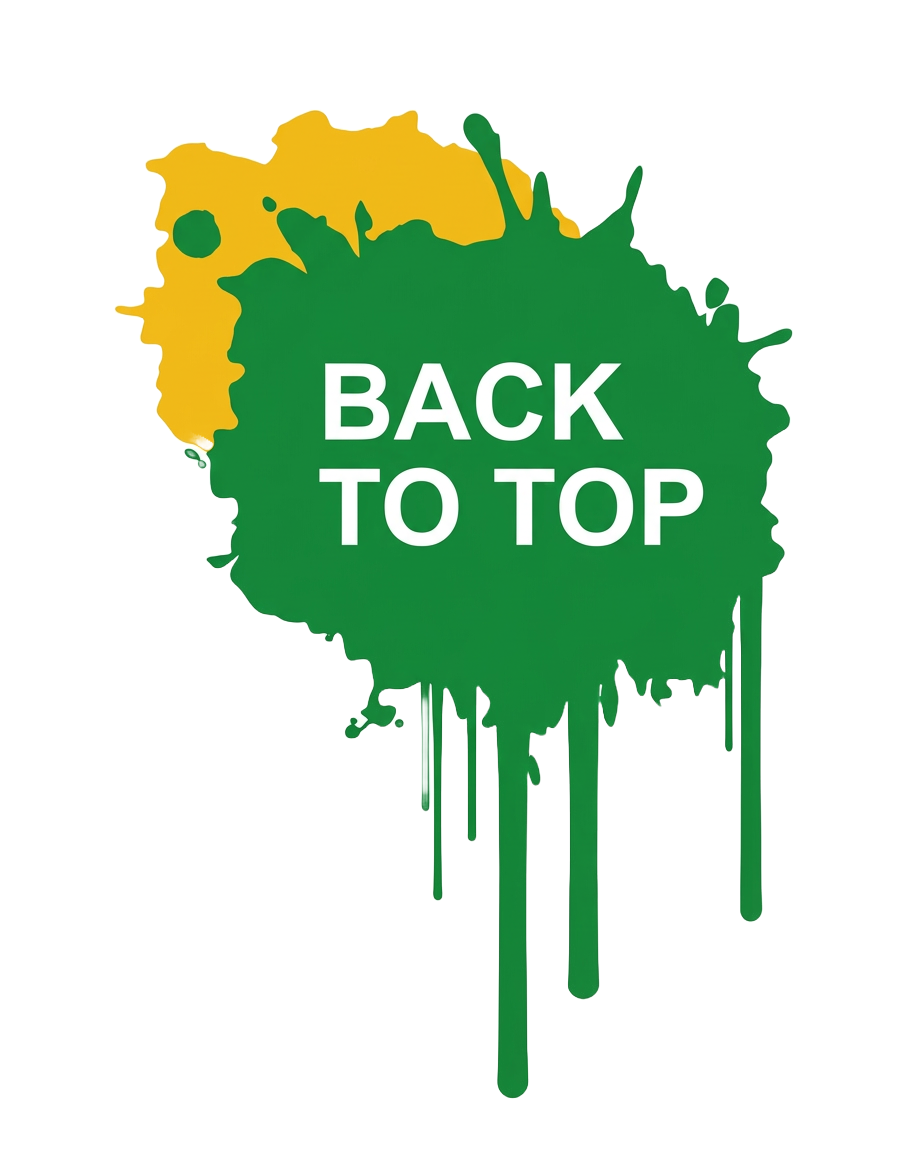
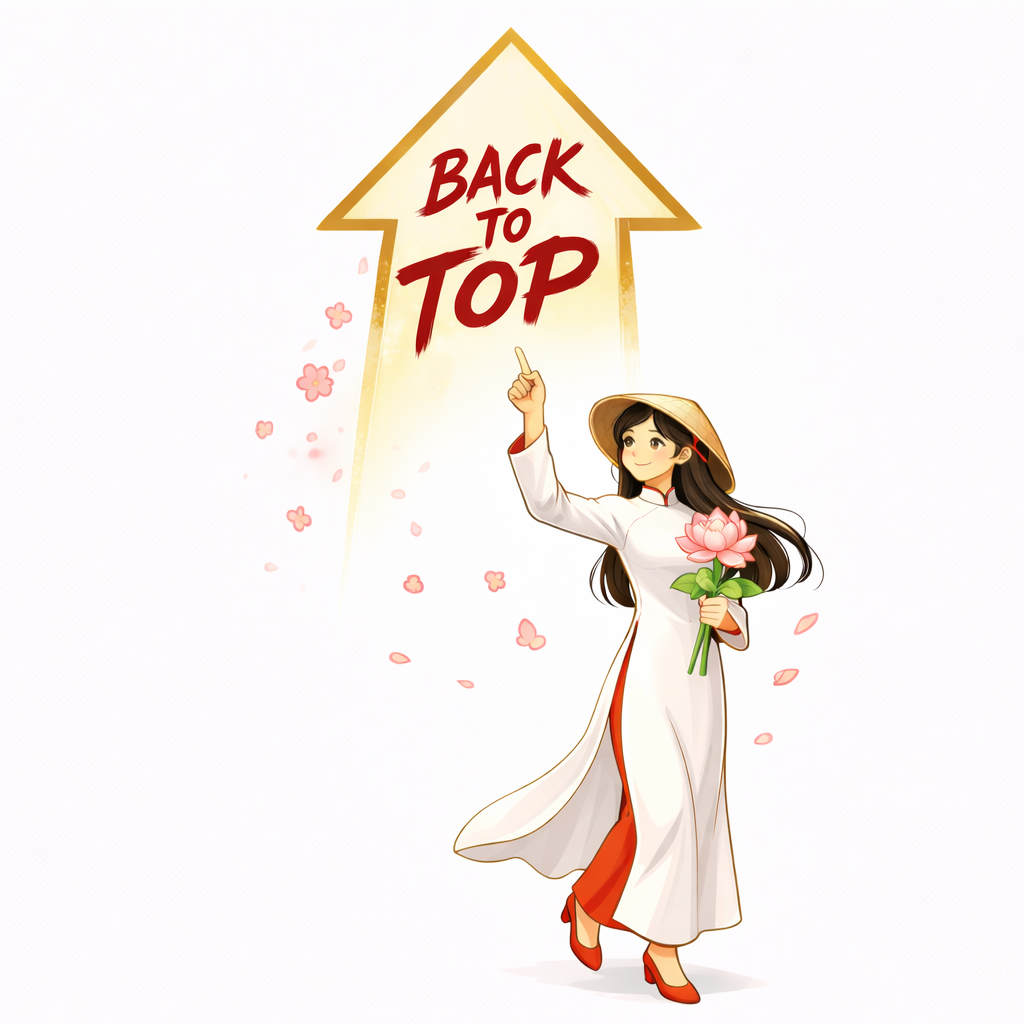
Add files via upload
1. Thêm trang : CÔNG TY THÀNH VIÊN
2. Thêm icon TPS cho trang CÔNG TY THÀNH VIÊN
3. Thay icon BACK TO TOP

diff --git a/cong-ty-thanh-vien.html b/cong-ty-thanh-vien.html
@@ -3,7 +3,7 @@
 <head>
     <meta charset="UTF-8">
     <meta name="viewport" content="width=device-width, initial-scale=1.0">
-    <title>Website Công Ty - TRANG GIỚI THIỆU</title>
+    <title>Website Công Ty - TRANG CÔNG TY THÀNH VIÊN</title>
     <link rel="stylesheet" href="https://cdnjs.cloudflare.com/ajax/libs/font-awesome/6.0.0/css/all.min.css">
     <style>
         :root {
@@ -453,7 +453,7 @@ header.scrolled .search-container {
     <header id="main-header">
         <div class="logo">
             <a href="index.html">
-                <img src="image/lo-go-cong-ty.PNG" alt="Logo" style="height: 50px; width: auto; vertical-align: middle;">
+                <img src="image/lo-go-cong-ty-tps.png" alt="Logo" style="height: 50px; width: auto; vertical-align: middle;">
             </a>
         </div>
         
@@ -464,7 +464,7 @@ header.scrolled .search-container {
                 <li><a href="dich-vu.html" id="nav-services">Dịch vụ</a></li>
                 <li><a href="du-an.html" id="nav-projects">Dự án</a></li>
                 <li><a href="tin-tuc.html" id="nav-news">Tin tức và hoạt động</a></li>
-		<li><a href="cong-ty-thanh-vien.html" id="nav-sub-company">Công ty thành viên</a></li>
+                <li><a href="cong-ty-thanh-vien.html" id="nav-sub-company">Công ty thành viên</a></li>
                 <li><a href="tuyen-dung.html" id="nav-jobs">Tuyển dụng</a></li>
                 <li><a href="lien-he.html" id="nav-contact">Liên hệ</a></li>
             </ul>
@@ -485,7 +485,7 @@ header.scrolled .search-container {
     </header>
 
     <section class="hero">
-        <h1 class="title-thin">Giới thiệu về IUS!</h1>
+        <h1 class="title-thin">Giới thiệu về TPS!</h1>
         <p class="caption-bottom">Nhà gỗ Nhật Bản (Ảnh: Internet)</p>
     </section>
 
@@ -536,7 +536,7 @@ header.scrolled .search-container {
 	    nav_sub_company: "Công ty thành viên",
             nav_jobs: "Tuyển dụng",
             nav_contact: "Liên hệ",
-            hero_title: "Giới thiệu về IUS!",
+            hero_title: "Giới thiệu về TPS!",
             hero_caption: "Nhà gỗ Nhật Bản (Ảnh: Internet)",
 	    search_placeholder: "Tìm kiếm...",
             section_main_title: "Thêm nội dung/hình ảnh vào đây!",
@@ -562,7 +562,7 @@ header.scrolled .search-container {
 	    nav_sub_company: "子会社",
             nav_jobs: "採用情報",
             nav_contact: "お問い合わせ",
-            hero_title: "IUSについて！",
+            hero_title: "TPSについて！",
             hero_caption: "日本の木造住宅（写真：インターネット）",
 	    search_placeholder: "検索...",
             section_main_title: "内容/写真を追加する！",

diff --git a/index.html b/index.html
@@ -464,6 +464,7 @@ header.scrolled .search-container {
                 <li><a href="dich-vu.html" id="nav-services">Dịch vụ</a></li>
                 <li><a href="du-an.html" id="nav-projects">Dự án</a></li>
                 <li><a href="tin-tuc.html" id="nav-news">Tin tức và hoạt động</a></li>
+		<li><a href="cong-ty-thanh-vien.html" id="nav-sub-company">Công ty thành viên</a></li>
                 <li><a href="tuyen-dung.html" id="nav-jobs">Tuyển dụng</a></li>
                 <li><a href="lien-he.html" id="nav-contact">Liên hệ</a></li>
             </ul>
@@ -601,6 +602,7 @@ header.scrolled .search-container {
             nav_services: "Dịch vụ",
             nav_projects: "Dự án",
             nav_news: "Tin tức và hoạt động",
+	    nav_sub_company: "Công ty thành viên",
             nav_jobs: "Tuyển dụng",
             nav_contact: "Liên hệ",
             hero_title: "Kiến tạo ngôi nhà bền vững của bạn!",
@@ -626,6 +628,7 @@ header.scrolled .search-container {
             nav_services: "サービス",
             nav_projects: "実績紹介",
             nav_news: "ニュース",
+	    nav_sub_company: "子会社",
             nav_jobs: "採用情報",
             nav_contact: "お問い合わせ",
             hero_title: "あなたの持続可能な家を築きましょう！",
@@ -668,6 +671,7 @@ header.scrolled .search-container {
     	if(document.getElementById("nav-services")) document.getElementById("nav-services").innerText = t.nav_services;
     	if(document.getElementById("nav-projects")) document.getElementById("nav-projects").innerText = t.nav_projects;
     	if(document.getElementById("nav-news")) document.getElementById("nav-news").innerText = t.nav_news;
+	if(document.getElementById("nav-sub-company")) document.getElementById("nav-sub-company").innerText = t.nav_sub_company;
     	if(document.getElementById("nav-jobs")) document.getElementById("nav-jobs").innerText = t.nav_jobs;
     	if(document.getElementById("nav-contact")) document.getElementById("nav-contact").innerText = t.nav_contact;
 

diff --git a/du-an.html b/du-an.html
@@ -464,6 +464,7 @@ header.scrolled .search-container {
                 <li><a href="dich-vu.html" id="nav-services">Dịch vụ</a></li>
                 <li><a href="du-an.html" id="nav-projects">Dự án</a></li>
                 <li><a href="tin-tuc.html" id="nav-news">Tin tức và hoạt động</a></li>
+		<li><a href="cong-ty-thanh-vien.html" id="nav-sub-company">Công ty thành viên</a></li>
                 <li><a href="tuyen-dung.html" id="nav-jobs">Tuyển dụng</a></li>
                 <li><a href="lien-he.html" id="nav-contact">Liên hệ</a></li>
             </ul>
@@ -532,6 +533,7 @@ header.scrolled .search-container {
             nav_services: "Dịch vụ",
             nav_projects: "Dự án",
             nav_news: "Tin tức và hoạt động",
+	    nav_sub_company: "Công ty thành viên",
             nav_jobs: "Tuyển dụng",
             nav_contact: "Liên hệ",
             hero_title: "Dự án tiêu biểu của IUS!",
@@ -557,6 +559,7 @@ header.scrolled .search-container {
             nav_services: "サービス",
             nav_projects: "実績紹介",
             nav_news: "ニュース",
+	    nav_sub_company: "子会社",
             nav_jobs: "採用情報",
             nav_contact: "お問い合わせ",
             hero_title: "IUS代表プロジェクト！",
@@ -599,6 +602,7 @@ header.scrolled .search-container {
     	if(document.getElementById("nav-services")) document.getElementById("nav-services").innerText = t.nav_services;
     	if(document.getElementById("nav-projects")) document.getElementById("nav-projects").innerText = t.nav_projects;
     	if(document.getElementById("nav-news")) document.getElementById("nav-news").innerText = t.nav_news;
+	if(document.getElementById("nav-sub-company")) document.getElementById("nav-sub-company").innerText = t.nav_sub_company;
     	if(document.getElementById("nav-jobs")) document.getElementById("nav-jobs").innerText = t.nav_jobs;
     	if(document.getElementById("nav-contact")) document.getElementById("nav-contact").innerText = t.nav_contact;
 

diff --git a/tin-tuc.html b/tin-tuc.html
@@ -464,6 +464,7 @@ header.scrolled .search-container {
                 <li><a href="dich-vu.html" id="nav-services">Dịch vụ</a></li>
                 <li><a href="du-an.html" id="nav-projects">Dự án</a></li>
                 <li><a href="tin-tuc.html" id="nav-news">Tin tức và hoạt động</a></li>
+		<li><a href="cong-ty-thanh-vien.html" id="nav-sub-company">Công ty thành viên</a></li>
                 <li><a href="tuyen-dung.html" id="nav-jobs">Tuyển dụng</a></li>
                 <li><a href="lien-he.html" id="nav-contact">Liên hệ</a></li>
             </ul>
@@ -532,6 +533,7 @@ header.scrolled .search-container {
             nav_services: "Dịch vụ",
             nav_projects: "Dự án",
             nav_news: "Tin tức và hoạt động",
+	    nav_sub_company: "Công ty thành viên",
             nav_jobs: "Tuyển dụng",
             nav_contact: "Liên hệ",
             hero_title: "Tin tức và hoạt động của IUS!",
@@ -557,6 +559,7 @@ header.scrolled .search-container {
             nav_services: "サービス",
             nav_projects: "実績紹介",
             nav_news: "ニュース",
+	    nav_sub_company: "子会社",
             nav_jobs: "採用情報",
             nav_contact: "お問い合わせ",
             hero_title: "IUSサービス！",
@@ -599,6 +602,7 @@ header.scrolled .search-container {
     	if(document.getElementById("nav-services")) document.getElementById("nav-services").innerText = t.nav_services;
     	if(document.getElementById("nav-projects")) document.getElementById("nav-projects").innerText = t.nav_projects;
     	if(document.getElementById("nav-news")) document.getElementById("nav-news").innerText = t.nav_news;
+	if(document.getElementById("nav-sub-company")) document.getElementById("nav-sub-company").innerText = t.nav_sub_company;
     	if(document.getElementById("nav-jobs")) document.getElementById("nav-jobs").innerText = t.nav_jobs;
     	if(document.getElementById("nav-contact")) document.getElementById("nav-contact").innerText = t.nav_contact;
 

diff --git a/tuyen-dung.html b/tuyen-dung.html
@@ -464,6 +464,7 @@ header.scrolled .search-container {
                 <li><a href="dich-vu.html" id="nav-services">Dịch vụ</a></li>
                 <li><a href="du-an.html" id="nav-projects">Dự án</a></li>
                 <li><a href="tin-tuc.html" id="nav-news">Tin tức và hoạt động</a></li>
+		<li><a href="cong-ty-thanh-vien.html" id="nav-sub-company">Công ty thành viên</a></li>
                 <li><a href="tuyen-dung.html" id="nav-jobs">Tuyển dụng</a></li>
                 <li><a href="lien-he.html" id="nav-contact">Liên hệ</a></li>
             </ul>
@@ -532,6 +533,7 @@ header.scrolled .search-container {
             nav_services: "Dịch vụ",
             nav_projects: "Dự án",
             nav_news: "Tin tức và hoạt động",
+	    nav_sub_company: "Công ty thành viên",
             nav_jobs: "Tuyển dụng",
             nav_contact: "Liên hệ",
             hero_title: "IUS tin tức tuyển dụng!",
@@ -557,6 +559,7 @@ header.scrolled .search-container {
             nav_services: "サービス",
             nav_projects: "実績紹介",
             nav_news: "ニュース",
+	    nav_sub_company: "子会社",
             nav_jobs: "採用情報",
             nav_contact: "お問い合わせ",
             hero_title: "IUS採用情報！",
@@ -599,6 +602,7 @@ header.scrolled .search-container {
     	if(document.getElementById("nav-services")) document.getElementById("nav-services").innerText = t.nav_services;
     	if(document.getElementById("nav-projects")) document.getElementById("nav-projects").innerText = t.nav_projects;
     	if(document.getElementById("nav-news")) document.getElementById("nav-news").innerText = t.nav_news;
+	if(document.getElementById("nav-sub-company")) document.getElementById("nav-sub-company").innerText = t.nav_sub_company;
     	if(document.getElementById("nav-jobs")) document.getElementById("nav-jobs").innerText = t.nav_jobs;
     	if(document.getElementById("nav-contact")) document.getElementById("nav-contact").innerText = t.nav_contact;
 

diff --git a/dich-vu.html b/dich-vu.html
@@ -464,6 +464,7 @@ header.scrolled .search-container {
                 <li><a href="dich-vu.html" id="nav-services">Dịch vụ</a></li>
                 <li><a href="du-an.html" id="nav-projects">Dự án</a></li>
                 <li><a href="tin-tuc.html" id="nav-news">Tin tức và hoạt động</a></li>
+		<li><a href="cong-ty-thanh-vien.html" id="nav-sub-company">Công ty thành viên</a></li>
                 <li><a href="tuyen-dung.html" id="nav-jobs">Tuyển dụng</a></li>
                 <li><a href="lien-he.html" id="nav-contact">Liên hệ</a></li>
             </ul>
@@ -532,6 +533,7 @@ header.scrolled .search-container {
             nav_services: "Dịch vụ",
             nav_projects: "Dự án",
             nav_news: "Tin tức và hoạt động",
+	    nav_sub_company: "Công ty thành viên",
             nav_jobs: "Tuyển dụng",
             nav_contact: "Liên hệ",
             hero_title: "Dịch vụ của IUS!",
@@ -557,6 +559,7 @@ header.scrolled .search-container {
             nav_services: "サービス",
             nav_projects: "実績紹介",
             nav_news: "ニュース",
+	    nav_sub_company: "子会社",
             nav_jobs: "採用情報",
             nav_contact: "お問い合わせ",
             hero_title: "IUSのサービス！",
@@ -599,6 +602,7 @@ header.scrolled .search-container {
     	if(document.getElementById("nav-services")) document.getElementById("nav-services").innerText = t.nav_services;
     	if(document.getElementById("nav-projects")) document.getElementById("nav-projects").innerText = t.nav_projects;
     	if(document.getElementById("nav-news")) document.getElementById("nav-news").innerText = t.nav_news;
+	if(document.getElementById("nav-sub-company")) document.getElementById("nav-sub-company").innerText = t.nav_sub_company;
     	if(document.getElementById("nav-jobs")) document.getElementById("nav-jobs").innerText = t.nav_jobs;
     	if(document.getElementById("nav-contact")) document.getElementById("nav-contact").innerText = t.nav_contact;
 

diff --git a/lien-he.html b/lien-he.html
@@ -168,6 +168,7 @@
                 <li><a href="dich-vu.html" id="nav-services">Dịch vụ</a></li>
                 <li><a href="du-an.html" id="nav-projects">Dự án</a></li>
                 <li><a href="tin-tuc.html" id="nav-news">Tin tức và hoạt động</a></li>
+		<li><a href="cong-ty-thanh-vien.html" id="nav-sub-company">Công ty thành viên</a></li>
                 <li><a href="tuyen-dung.html" id="nav-jobs">Tuyển dụng</a></li>
                 <li><a href="lien-he.html" id="nav-contact">Liên hệ</a></li>
         </ul></nav>
@@ -246,6 +247,7 @@
             nav_services: "Dịch vụ",
             nav_projects: "Dự án",
             nav_news: "Tin tức và hoạt động",
+	    nav_sub_company: "Công ty thành viên",
             nav_jobs: "Tuyển dụng",
 	    nav_contact: "Liên hệ",
             hero_title: "Liên hệ với chúng tôi!",
@@ -265,6 +267,7 @@
             nav_services: "サービス",
             nav_projects: "実績紹介",
             nav_news: "ニュース",
+	    nav_sub_company: "子会社",
             nav_jobs: "採用情報",
 	    nav_contact: "お問い合わせ",
             hero_title: "お問い合わせください！",
@@ -297,6 +300,7 @@ if (!t) return;
     if(document.getElementById("nav-services")) document.getElementById("nav-services").innerText = t.nav_services;
     if(document.getElementById("nav-projects")) document.getElementById("nav-projects").innerText = t.nav_projects;
     if(document.getElementById("nav-news")) document.getElementById("nav-news").innerText = t.nav_news;
+    if(document.getElementById("nav-sub-company")) document.getElementById("nav-sub-company").innerText = t.nav_sub_company;
     if(document.getElementById("nav-jobs")) document.getElementById("nav-jobs").innerText = t.nav_jobs;
     if(document.getElementById("nav-contact")) document.getElementById("nav-contact").innerText = t.nav_contact;
 
